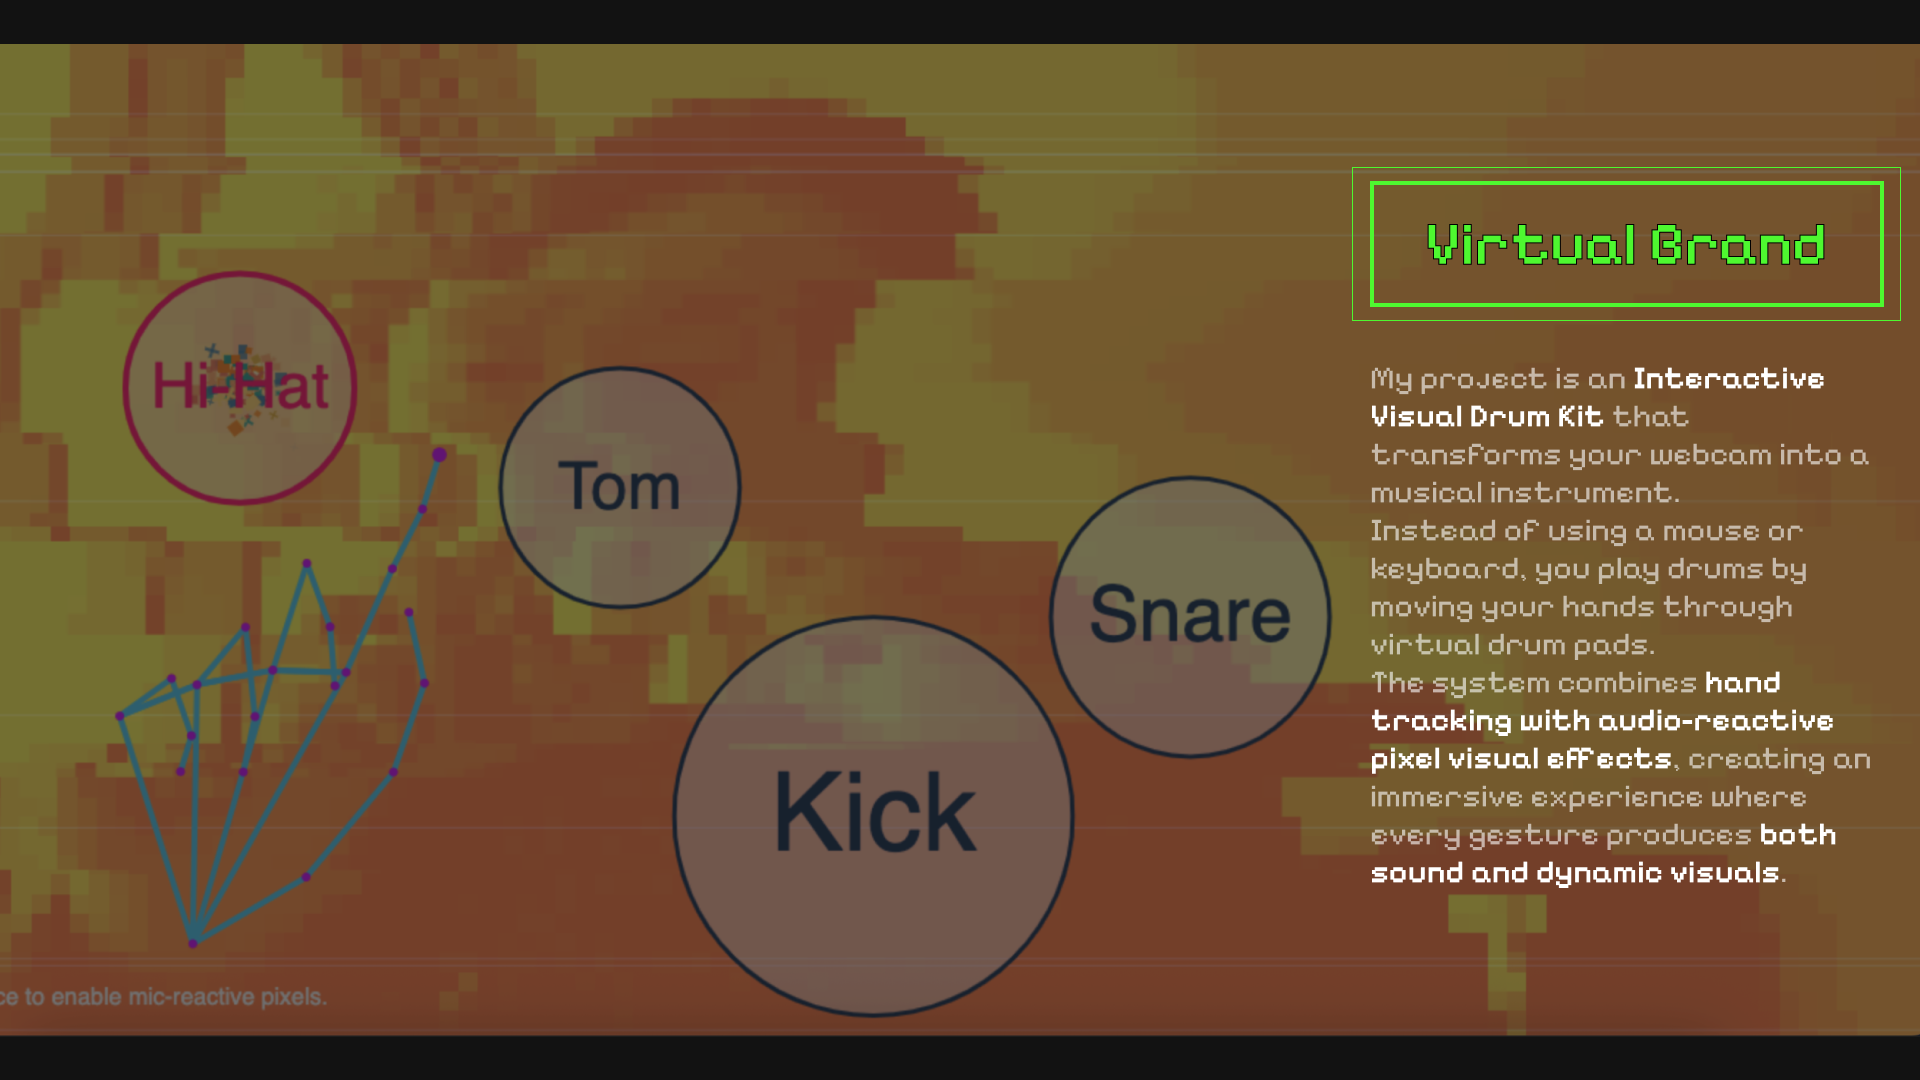
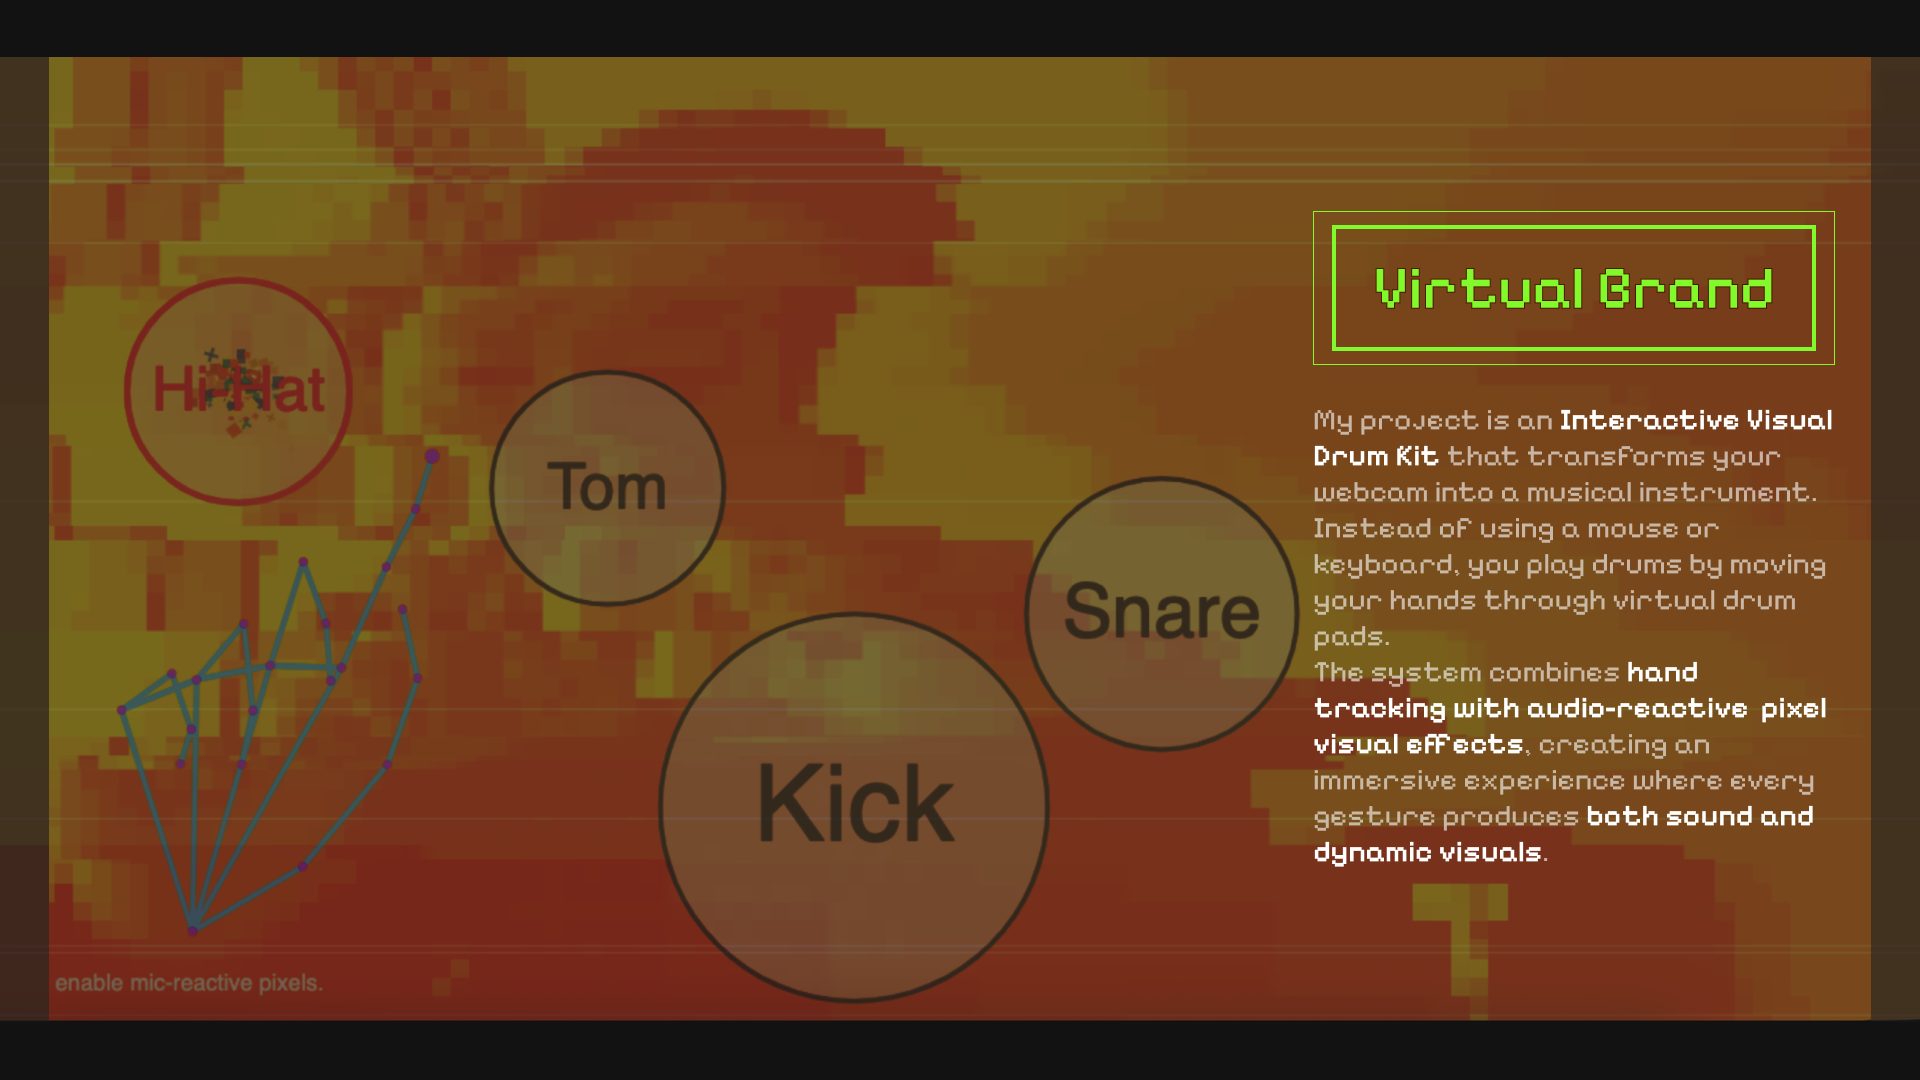
drum

diff --git a/gallery/interactive-visual-drum-kit/index.html b/gallery/interactive-visual-drum-kit/index.html
@@ -99,7 +99,7 @@
 <section class="two-column-section">
   <div class="column-title">Concept</div>
   <div class="column-content">
-    <p class="content-text">The Interactive Visual Drum Kit transforms a webcam and built-in microphone into a playable instrument. Players strike virtual drum pads in mid-air, triggering responsive sound and particle-rich visuals that amplify every motion. The experience is designed for quick onboarding, minimal hardware, and an expressive audiovisual feedback loop.</p>
+    <p class="content-text">My project is an Interactive Visual Drum Kit that transforms your webcam into a musical instrument. Instead of using a mouse or keyboard, you play drums by moving your hands through virtual drum pads. The system combines hand tracking with audio-reactive pixel visual effects, creating an immersive experience where every gesture produces both sound and dynamic visuals.</p>
     <h4 class="subsection-title">Experience Goals</h4>
     <ul class="content-text">
       <li>Deliver a playful, performance-ready interface that works anywhere with just a laptop.</li>
@@ -107,17 +107,17 @@
       <li>Offer a production-grade demo that can scale into installations, remote jam sessions, or educational tools.</li>
     </ul>
     <h4 class="subsection-title">Gesture-to-Sound Pipeline</h4>
-    <h4 class="subsection-title">Stage 1 · Hand Tracking Foundation</h4>
+    <p class="content-text"><strong>Stage 1 · Hand Tracking Foundation</strong></p>
     <ul class="content-text">
       <li>MediaPipe Hands captures both hands with 21 landmarks, outputting clean skeletal overlays.</li>
       <li>Real-time smoothing and coordinate normalization prevent jitter when hands move quickly.</li>
     </ul>
-    <h4 class="subsection-title">Stage 2 · Drum Layout &amp; Hit Logic</h4>
+    <p class="content-text"><strong>Stage 2 · Drum Layout &amp; Hit Logic</strong></p>
     <ul class="content-text">
       <li>Four drums (Kick, Snare, Tom, Hi-Hat) float in ergonomic positions with hover-state hints.</li>
       <li>A velocity threshold of 500 px/s ensures only intentional strikes trigger a sound.</li>
     </ul>
-    <h4 class="subsection-title">Stage 3 · Audio &amp; Visual Fusion</h4>
+    <p class="content-text"><strong>Stage 3 · Audio &amp; Visual Fusion</strong></p>
     <ul class="content-text">
       <li>The Web Audio API streams low-latency drum samples with per-pad routing.</li>
       <li>Each confirmed hit spawns particle bursts and shader pulses that echo the strike’s direction and intensity.</li>

diff --git a/gallery/interactive-visual-drum-kit/text.md b/gallery/interactive-visual-drum-kit/text.md
@@ -20,15 +20,13 @@ The system combines hand tracking with audio-reactive  pixel visual effects, cre
 - Offer a production-grade demo that can scale into installations, remote jam sessions, or educational tools.
 
 #### Gesture-to-Sound Pipeline
-#### Stage 1 · Hand Tracking Foundation
+**Stage 1 · Hand Tracking Foundation**
 - MediaPipe Hands captures both hands with 21 landmarks, outputting clean skeletal overlays.
 - Real-time smoothing and coordinate normalization prevent jitter when hands move quickly.
-
-#### Stage 2 · Drum Layout & Hit Logic
+**Stage 2 · Drum Layout & Hit Logic**
 - Four drums (Kick, Snare, Tom, Hi-Hat) float in ergonomic positions with hover-state hints.
 - A velocity threshold of 500 px/s ensures only intentional strikes trigger a sound.
-
-#### Stage 3 · Audio & Visual Fusion
+**Stage 3 · Audio & Visual Fusion**
 - The Web Audio API streams low-latency drum samples with per-pad routing.
 - Each confirmed hit spawns particle bursts and shader pulses that echo the strike’s direction and intensity.
 
@@ -38,7 +36,6 @@ The system combines hand tracking with audio-reactive  pixel visual effects, cre
 
 ### User Journey
 First, you grant webcam and microphone permissions. Immediately, you see your hands tracked in real-time with a blue skeletal overlay - your index fingertip becomes your drumstick. As you explore, you can move your hand over the drums without triggering them. To actually play, you need to strike with intent - a fast punching motion. As you build rhythm, the entire scene responds - the background pixelates with the bass, colors shift from cool teals to warm oranges, and the visuals create an immersive musical experience.
-
 ![Annotated user journey interface](./public/4-user.png)
 
 
